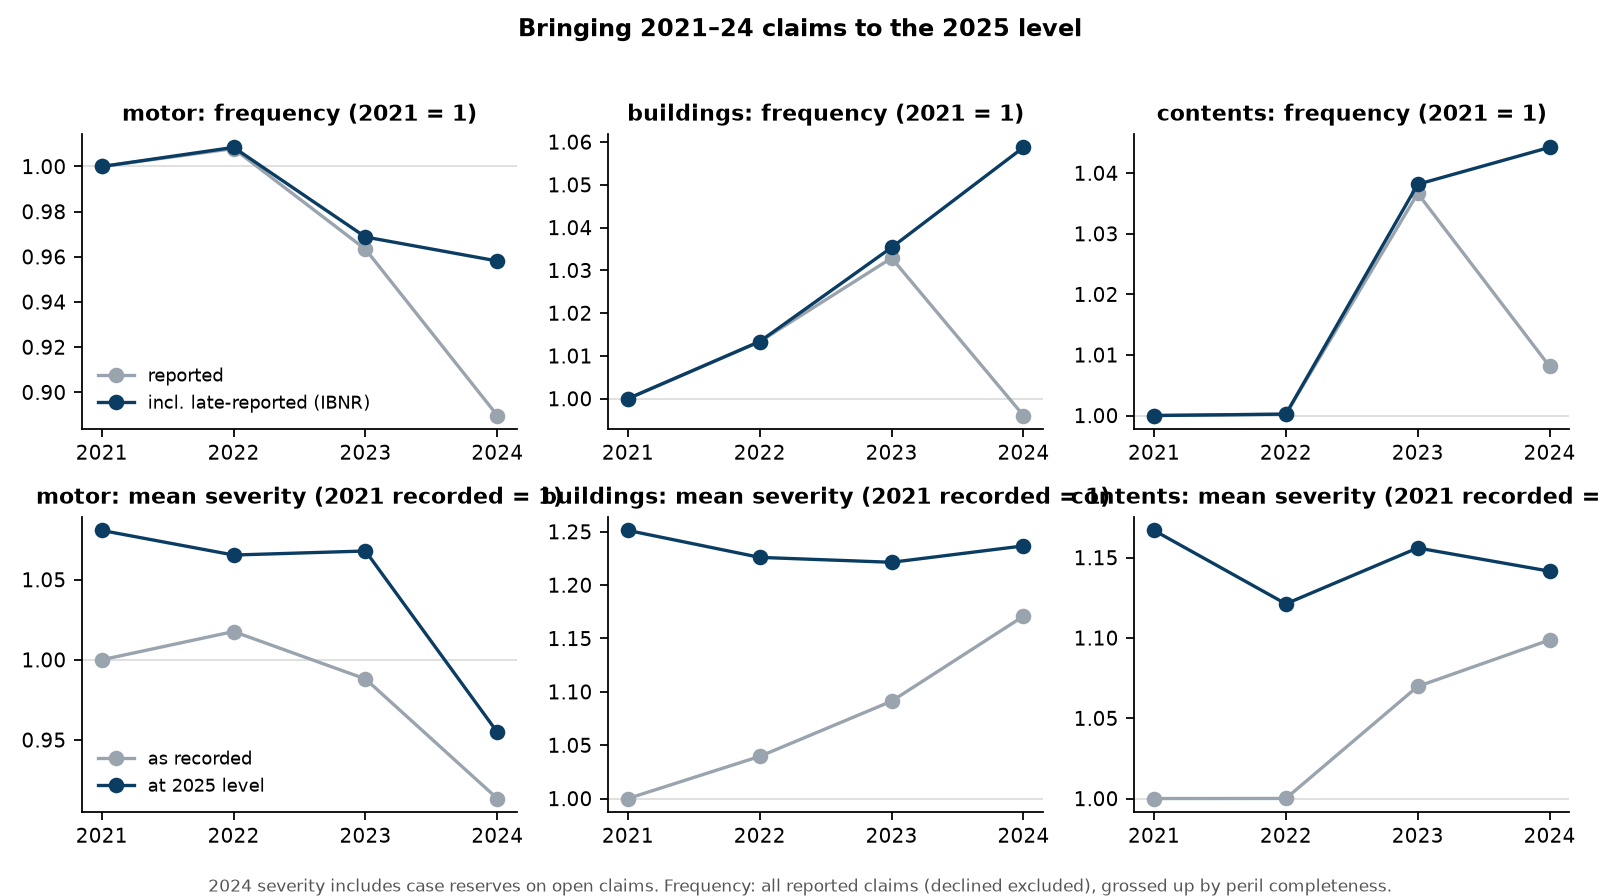
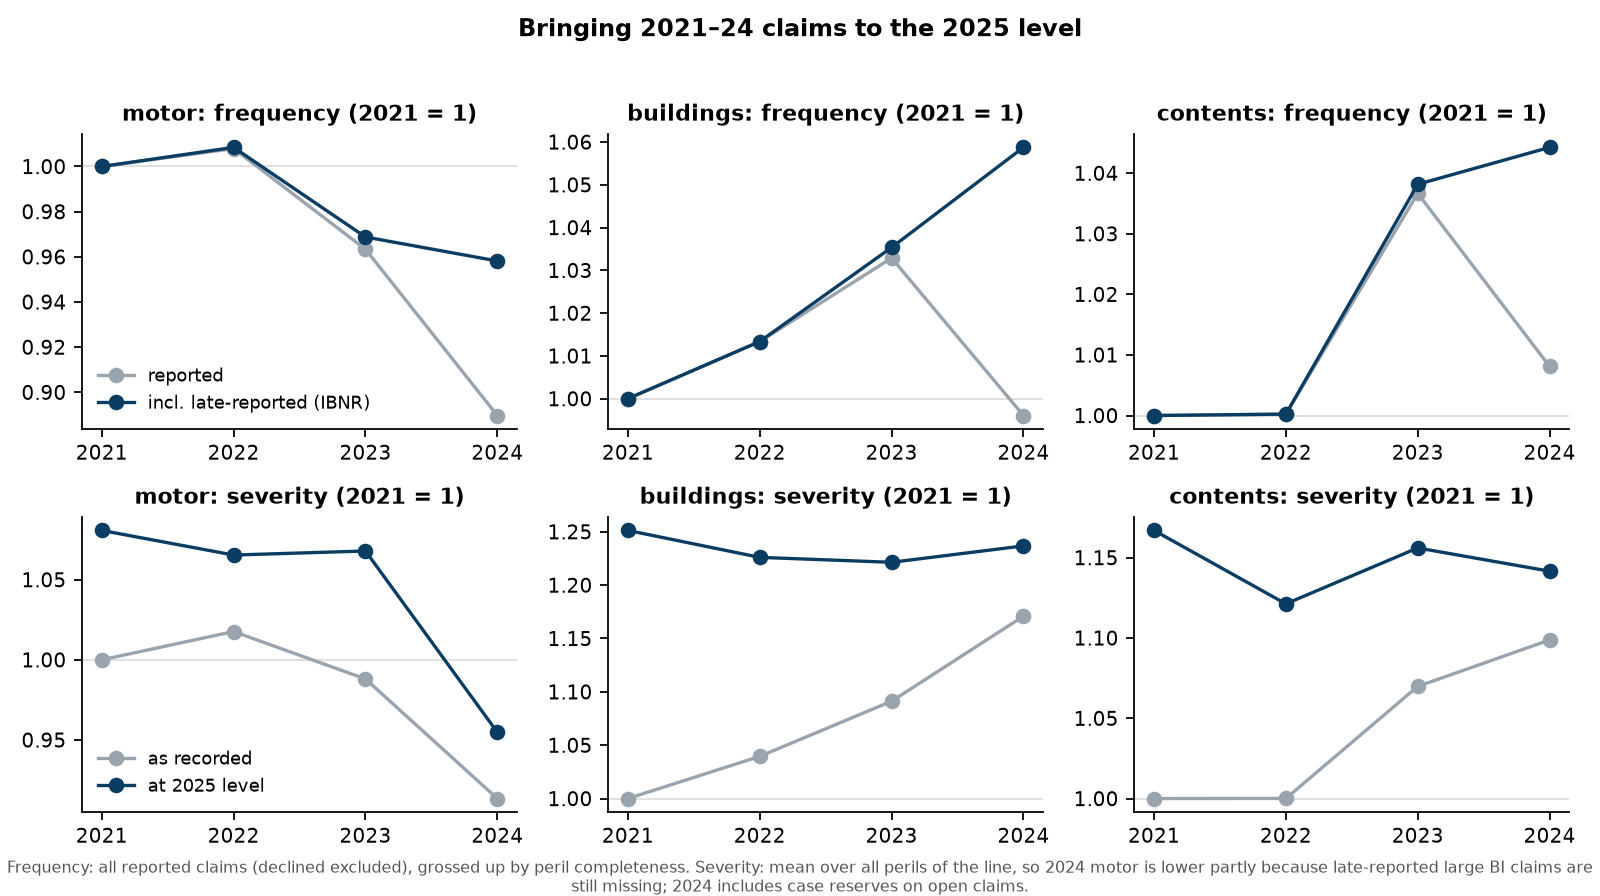
Report figures (tools/figures.py); AI log rows 54, 71-73 restored; leaderboard tally by explicit rule

Changed region(s): [[0.0312, 0.5312, 1.0, 0.5625], [0.125, 0.9375, 0.875, 1.0]]

diff --git a/tools/figures.py b/tools/figures.py
@@ -60,13 +60,14 @@ def fig1(cfg):
         sa = (s.incurred_to_date * f).clip(upper=cap).groupby(s.loss_year).mean()
         ax[1, j].plot(years, sr / sr.iloc[0], "o-", color=GREY, label="as recorded")
         ax[1, j].plot(years, sa / sr.iloc[0], "o-", color=BLUE, label="at 2025 level")
-        ax[1, j].set_title(f"{line}: mean severity (2021 recorded = 1)")
+        ax[1, j].set_title(f"{line}: severity (2021 = 1)")
         for k in (0, 1):
             ax[k, j].set_xticks(years); ax[k, j].axhline(1, color="#ddd", lw=0.8, zorder=0)
     ax[0, 0].legend(frameon=False, fontsize=8); ax[1, 0].legend(frameon=False, fontsize=8)
     fig.suptitle("Bringing 2021–24 claims to the 2025 level", fontweight="bold")
-    fig.text(0.5, 0.005, "2024 severity includes case reserves on open claims. Frequency: all reported claims "
-             "(declined excluded), grossed up by peril completeness.", ha="center", fontsize=7.5, color="#555")
+    fig.text(0.5, 0.005, "Frequency: all reported claims (declined excluded), grossed up by peril completeness. Severity: mean "
+             "over all perils of the line, so 2024 motor is lower partly because late-reported large BI claims are "
+             "still missing; 2024 includes case reserves on open claims.", ha="center", fontsize=7, color="#555", wrap=True)
     fig.tight_layout(rect=(0, 0.03, 1, 0.96)); fig.savefig(OUT / "fig1_freq_sev.png", dpi=160); plt.close(fig)
 
     # 1b: BI reform step, equal maturity (reported within 180 days)
@@ -116,7 +117,7 @@ def fig2():
         tally[kind] += 1
         ax.plot(obs * 1000, y, "o", color={"inside": GREEN, "near": ORANGE, "outside": RED}[kind], ms=6, zorder=3)
     ax.axvspan(-1, 1, color="#f2f2f2", zorder=0)
-    ax.text(0.98, -0.9, "±0.001 noise range", ha="right", fontsize=7.5, color="#777")
+    ax.text(-0.95, len(SUBMISSIONS) - 0.6, "±0.001 noise range", ha="left", fontsize=7.5, color="#777")
     ax.axvline(0, color="#bbb", lw=0.8)
     ax.set_yticks(range(len(SUBMISSIONS))); ax.set_yticklabels([s[0] for s in SUBMISSIONS][::-1])
     ax.set_xlabel("change in public score (× 0.001)")
@@ -176,7 +177,7 @@ def fig3():
              label="in judgement (questions, data)")
     for i, v in enumerate([counts["A"], counts["H"], counts["E"]]):
         ax2.text(v + 0.5, i, f"{int(v)}", va="center", fontsize=8)
-    ax2.invert_yaxis(); ax2.legend(frameon=False, fontsize=7.5, loc="lower right")
+    ax2.invert_yaxis(); ax2.legend(frameon=False, fontsize=7.5, loc="upper center", bbox_to_anchor=(0.45, -0.12), ncol=2)
     ax2.set_title(f"AI_USE_LOG: {d.n.nunique()} entries (A/E rows count in both)", fontsize=9)
     fig.savefig(OUT / "fig3_ai_roles.png", dpi=160, bbox_inches="tight"); plt.close(fig)
     print(f"fig3: {({k: int(v) for k, v in counts.items()})}; AI errors {({k: int(v) for k, v in kinds.items()})} "
